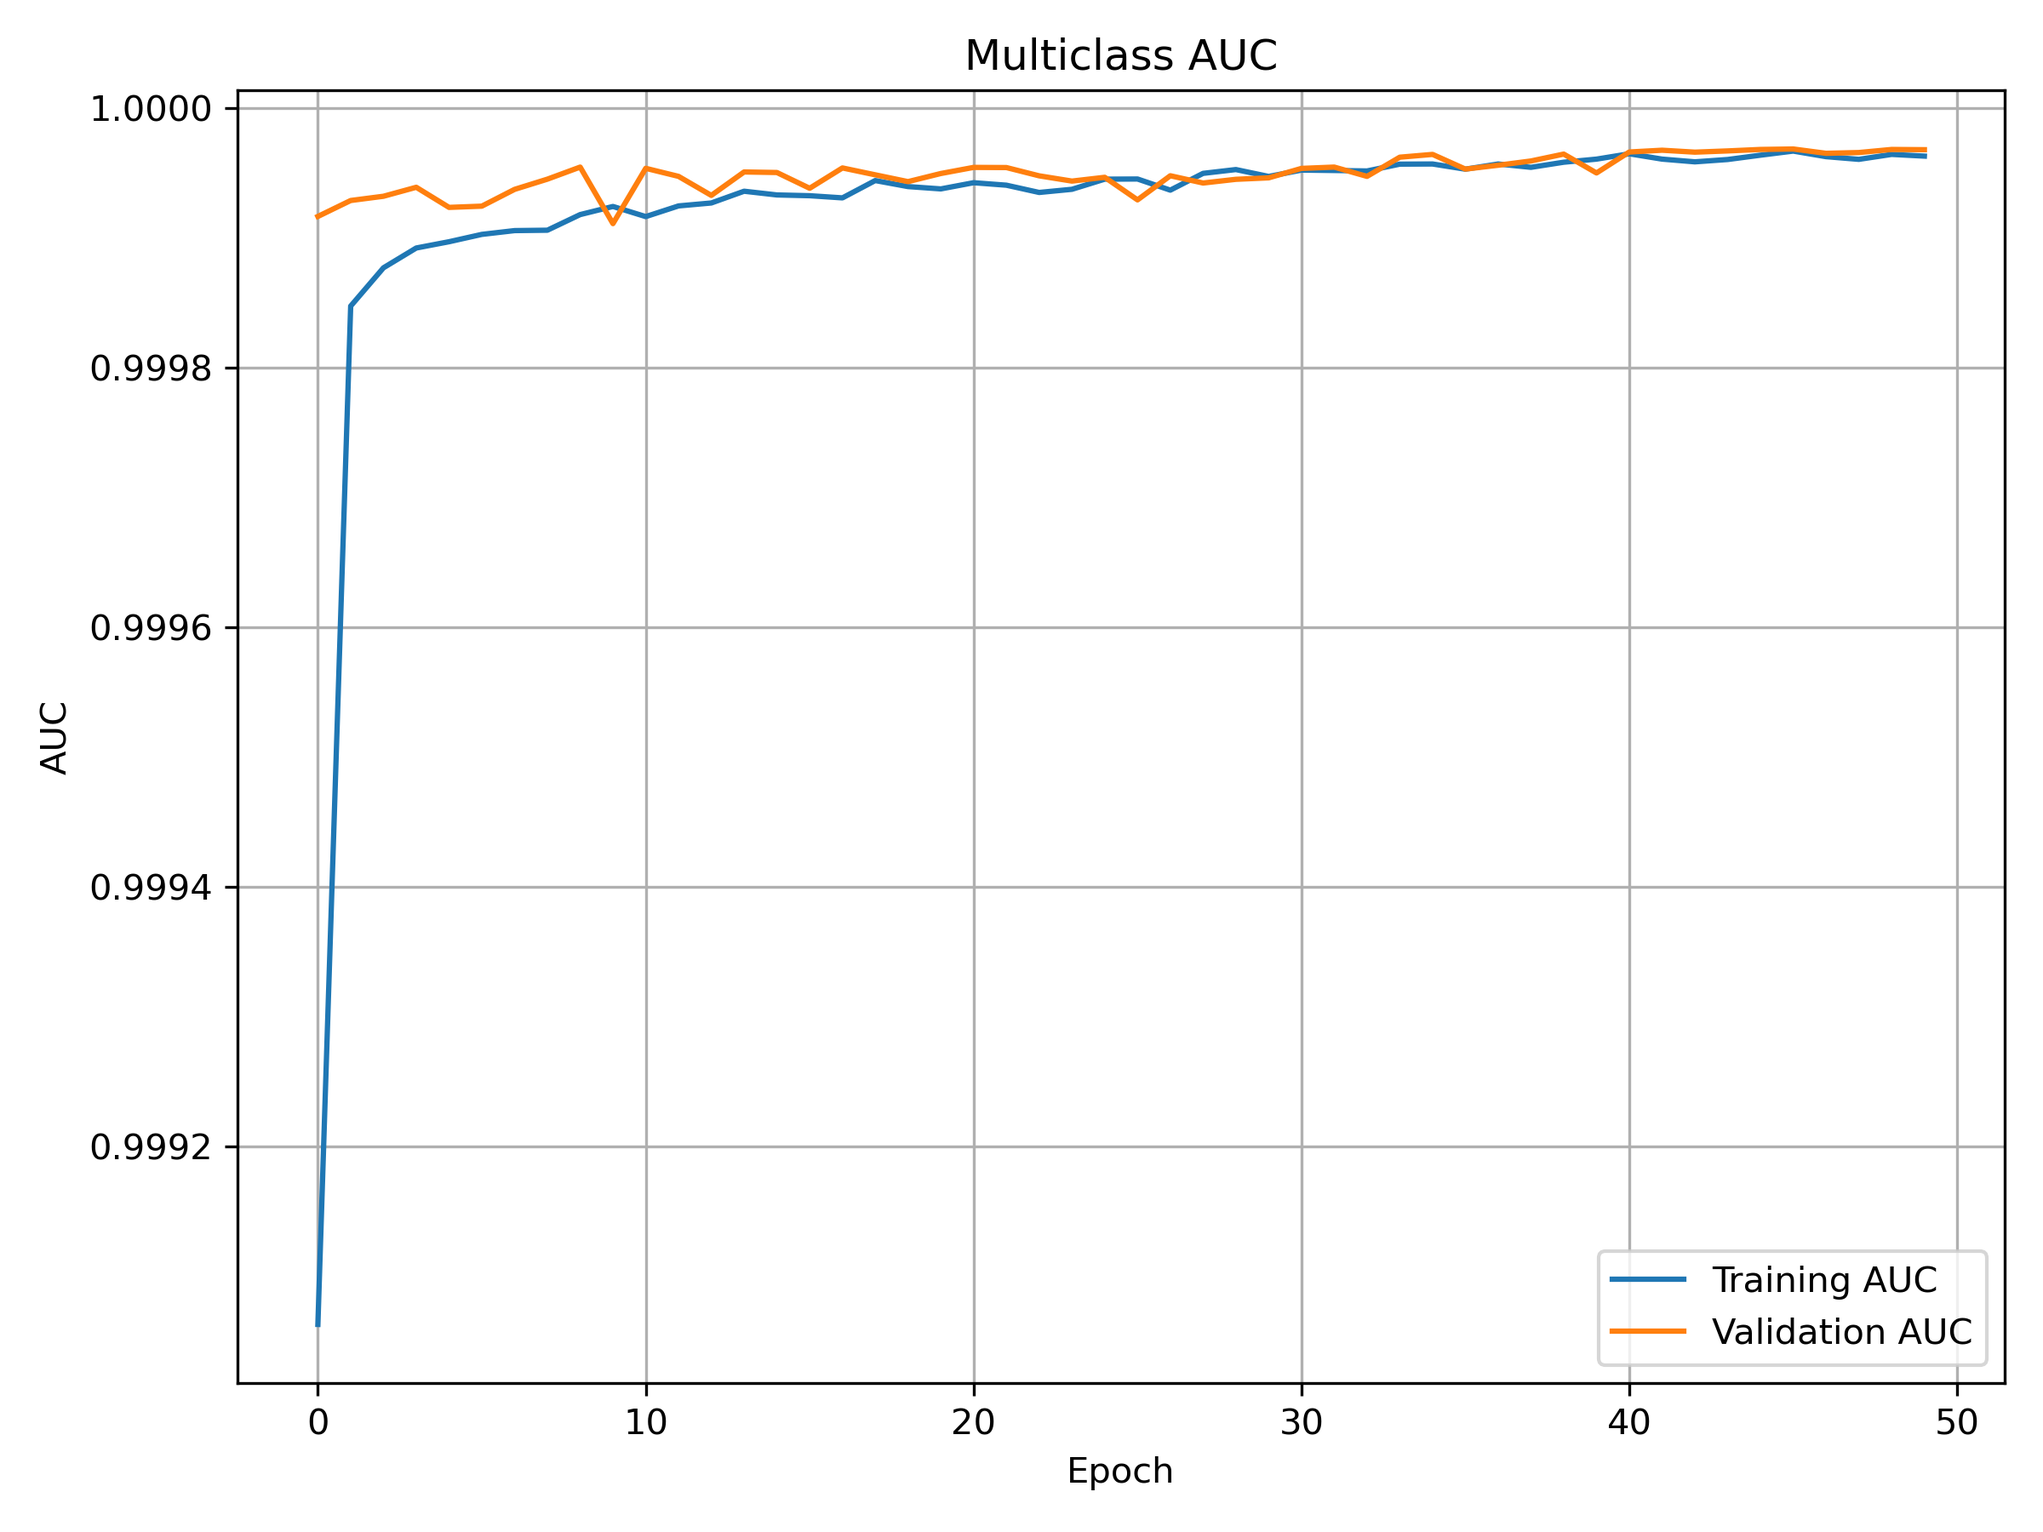
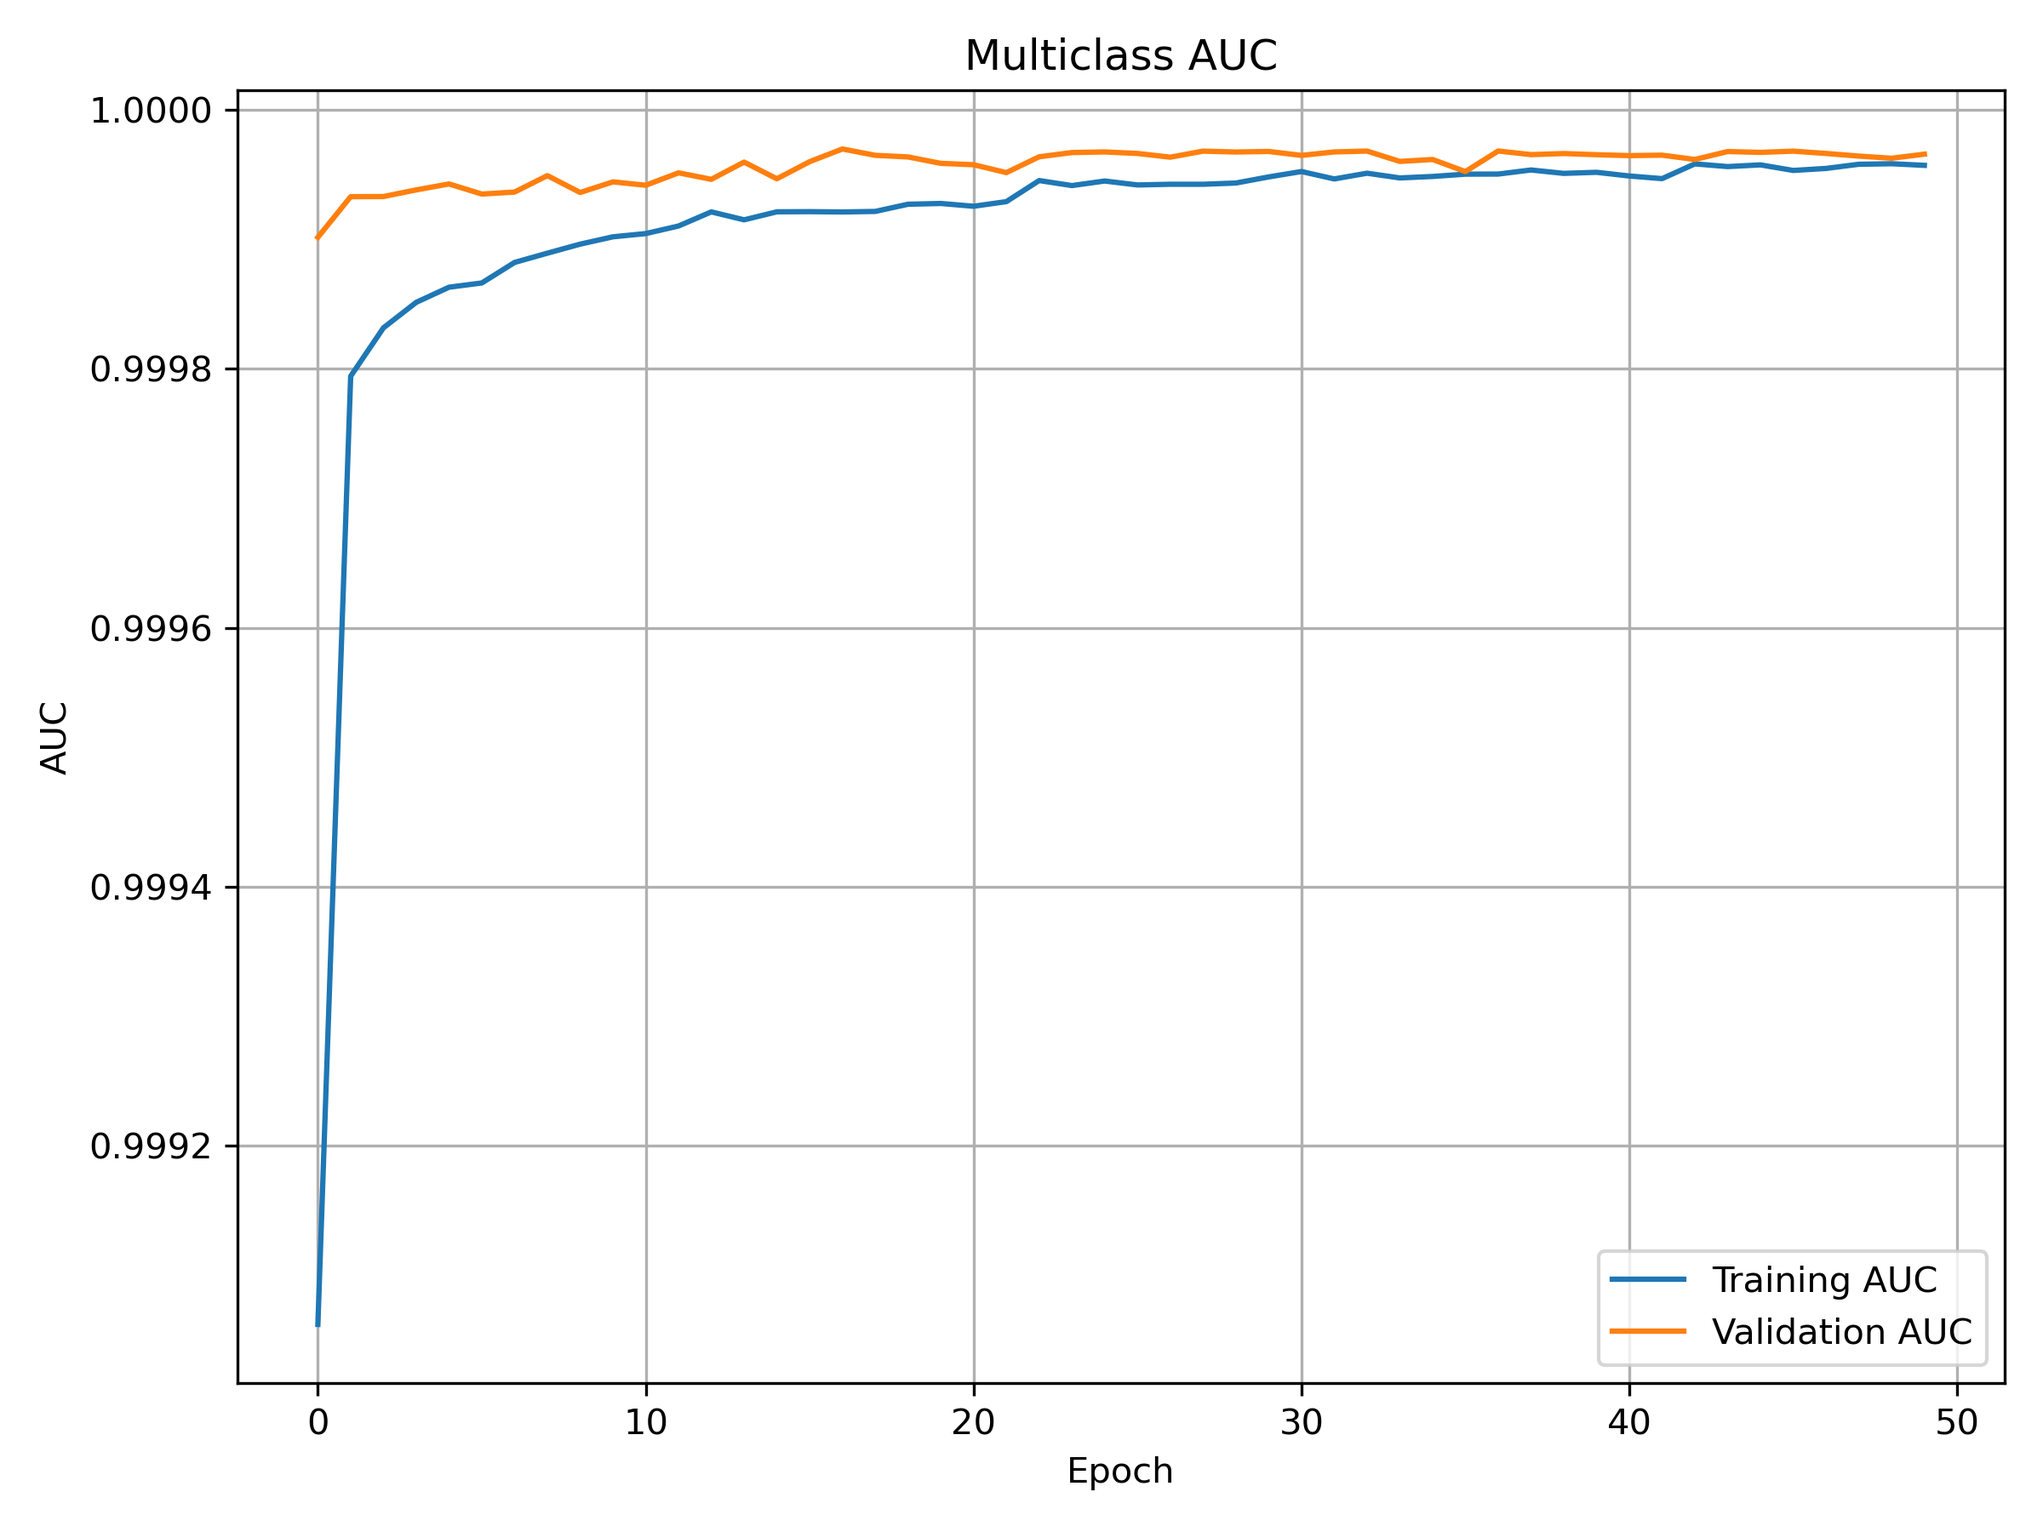
FPR for all multiclass classes

diff --git a/main-multiclass.py b/main-multiclass.py
@@ -6,7 +6,7 @@ import logging
 from pathlib import Path
 import random
 import traceback
-from multiclassFalsePositiveRate import MulticlassFalsePositiveRate
+from multiclassFalsePositiveRate import MulticlassFalsePositiveRate, create_multiclass_fpr_metrics
 
 # Set up logging
 logging.basicConfig(level=logging.INFO, format='%(asctime)s - %(levelname)s - %(message)s')
@@ -16,7 +16,7 @@ logger = logging.getLogger(__name__)
 class Config:
     # Dataset parameters
     NUM_FEATURES = 39
-    NUM_LINES = 500000
+    NUM_LINES = 750000
     BATCH_SIZE = 32
     DATA_FOLDER = f'proj/datasets/sized_data/multiclass/{NUM_LINES}_lines'
     MODEL_PATH = 'proj/models/best_multiclass_model.keras'
@@ -218,6 +218,10 @@ def create_model():
         clipnorm=1.0
     )
     
+    # Create separate FPR metrics for each class, using class names
+    class_names = ["Benign", "Mirai_GREIP_Flood", "Mirai_GREETH_Flood", "MIRAI_UDPPLAIN"]
+    fpr_metrics = create_multiclass_fpr_metrics(cfg.NUM_CLASSES, class_names)
+    
     model.compile(
         optimizer=optimizer,
         loss=tf.keras.losses.CategoricalCrossentropy(from_logits=False, label_smoothing=0.1),
@@ -232,7 +236,7 @@ def create_model():
                 threshold=None,
                 dtype=tf.float32
             ),
-            MulticlassFalsePositiveRate(negative_class=0, name='false_positive_rate')
+            *fpr_metrics  # Add all FPR metrics
         ]
     )
     return model
@@ -432,81 +436,143 @@ def plot_training_history(history):
         plt.savefig('proj/src/results/multiclass_model_precision_recall.png', dpi=300)
         plt.close()
     
-    # Plot False Positive Rate (if available)
-    if 'false_positive_rate' in history.history:
-        plt.figure(figsize=(8, 6))
-        plt.plot(history.history['false_positive_rate'], label="Training FPR")
-        plt.plot(history.history['val_false_positive_rate'], label="Validation FPR")
-        plt.title("Multiclass False Positive Rate")
-        plt.xlabel("Epoch")
-        plt.ylabel("FPR")
-        plt.legend()
-        plt.grid(True)
-        plt.tight_layout()
-        plt.savefig('proj/src/results/multiclass_model_fpr.png', dpi=300)
-        plt.close()
+    # Plot individual class False Positive Rates
+    class_names = ["Benign", "Mirai_GREIP_Flood", "Mirai_GREETH_Flood", "MIRAI_UDPPLAIN"]
+    for class_name in class_names:
+        metric_name = f'false_positive_rate_{class_name}'
+        if metric_name in history.history:
+            plt.figure(figsize=(8, 6))
+            plt.plot(history.history[metric_name], label=f"Training FPR ({class_name})")
+            val_metric_name = f'val_{metric_name}'
+            if val_metric_name in history.history:
+                plt.plot(history.history[val_metric_name], label=f"Validation FPR ({class_name})")
+            plt.title(f"False Positive Rate - {class_name}")
+            plt.xlabel("Epoch")
+            plt.ylabel("FPR")
+            plt.legend()
+            plt.grid(True)
+            plt.tight_layout()
+            plt.savefig(f'proj/src/results/multiclass_model_fpr_{class_name}.png', dpi=300)
+            plt.close()
     
-    # Grid Figure (2 x 3)
-    fig, axs = plt.subplots(2, 3, figsize=(18, 12))
+    # Multi-class FPR comparison plot
+    plt.figure(figsize=(10, 8))
+    for class_name in class_names:
+        metric_name = f'false_positive_rate_{class_name}'
+        if metric_name in history.history:
+            plt.plot(history.history[metric_name], label=f"{class_name}")
+    plt.title("Training FPR by Class")
+    plt.xlabel("Epoch")
+    plt.ylabel("FPR")
+    plt.legend()
+    plt.grid(True)
+    plt.tight_layout()
+    plt.savefig('proj/src/results/multiclass_model_fpr_comparison.png', dpi=300)
+    plt.close()
     
-    # Loss graph (top-left)
-    axs[0, 0].plot(history.history['loss'], label='Train Loss')
-    axs[0, 0].plot(history.history['val_loss'], label='Val Loss')
-    axs[0, 0].set_title("Multiclass Loss")
-    axs[0, 0].legend()
-    axs[0, 0].grid(True)
+    # Validation Multi-class FPR comparison plot
+    plt.figure(figsize=(10, 8))
+    for class_name in class_names:
+        val_metric_name = f'val_false_positive_rate_{class_name}'
+        if val_metric_name in history.history:
+            plt.plot(history.history[val_metric_name], label=f"{class_name}")
+    plt.title("Validation FPR by Class")
+    plt.xlabel("Epoch")
+    plt.ylabel("FPR")
+    plt.legend()
+    plt.grid(True)
+    plt.tight_layout()
+    plt.savefig('proj/src/results/multiclass_model_val_fpr_comparison.png', dpi=300)
+    plt.close()
     
-    # Accuracy graph (top-middle)
-    axs[0, 1].plot(history.history['accuracy'], label="Train Accuracy")
-    axs[0, 1].plot(history.history['val_accuracy'], label="Val Accuracy")
-    axs[0, 1].set_title("Multiclass Accuracy")
-    axs[0, 1].legend()
-    axs[0, 1].grid(True)
+    # Create enlarged grid figure for all metrics including per-class FPRs
+    num_metrics = 6  # base metrics
+    num_class_fprs = sum(1 for name in class_names if f'false_positive_rate_{name}' in history.history)
+    total_plots = num_metrics + num_class_fprs
     
-    # AUC graph (top-right)
+    # Calculate grid dimensions - aim for roughly square layout
+    import math
+    grid_cols = min(4, math.ceil(math.sqrt(total_plots)))
+    grid_rows = math.ceil(total_plots / grid_cols)
+    
+    # Create the grid
+    fig, axs = plt.subplots(grid_rows, grid_cols, figsize=(grid_cols*5, grid_rows*4))
+    axs = axs.flatten() if total_plots > 1 else [axs]  # Handle single plot case
+    
+    # Plot base metrics
+    plot_idx = 0
+    
+    # Loss graph
+    axs[plot_idx].plot(history.history['loss'], label='Train')
+    axs[plot_idx].plot(history.history['val_loss'], label='Val')
+    axs[plot_idx].set_title("Loss")
+    axs[plot_idx].legend()
+    axs[plot_idx].grid(True)
+    plot_idx += 1
+    
+    # Accuracy graph
+    axs[plot_idx].plot(history.history['accuracy'], label="Train")
+    axs[plot_idx].plot(history.history['val_accuracy'], label="Val")
+    axs[plot_idx].set_title("Accuracy")
+    axs[plot_idx].legend()
+    axs[plot_idx].grid(True)
+    plot_idx += 1
+    
+    # AUC graph
     if 'auc' in history.history:
-        axs[0, 2].plot(history.history['auc'], label="Train AUC")
-        axs[0, 2].plot(history.history['val_auc'], label="Val AUC")
-        axs[0, 2].set_title("Multiclass AUC")
-        axs[0, 2].legend()
-        axs[0, 2].grid(True)
-    else:
-        axs[0, 2].set_visible(False)
-        
-    # F1 Score graph (bottom-left)
-    if 'f1_score' in history.history:
-        axs[1, 0].plot(history.history['f1_score'], label="Train F1")
-        axs[1, 0].plot(history.history['val_f1_score'], label="Val F1")
-        axs[1, 0].set_title("Multiclass F1 Score")
-        axs[1, 0].legend()
-        axs[1, 0].grid(True)
-    else:
-        axs[1, 0].set_visible(False)
+        axs[plot_idx].plot(history.history['auc'], label="Train")
+        axs[plot_idx].plot(history.history['val_auc'], label="Val")
+        axs[plot_idx].set_title("AUC")
+        axs[plot_idx].legend()
+        axs[plot_idx].grid(True)
+        plot_idx += 1
     
-    # Precision & Recall graph (bottom-middle)
-    if 'precision' in history.history and 'recall' in history.history:
-        axs[1, 1].plot(history.history['precision'], label="Train Precision")
-        axs[1, 1].plot(history.history['val_precision'], label="Val Precision")
-        axs[1, 1].plot(history.history['recall'], label="Train Recall")
-        axs[1, 1].plot(history.history['val_recall'], label="Val Recall")
-        axs[1, 1].set_title("Multiclass Precision & Recall")
-        axs[1, 1].legend()
-        axs[1, 1].grid(True)
-    else:
-        axs[1, 1].set_visible(False)
-        
-    # False Positive Rate graph (bottom-right)
-    if 'false_positive_rate' in history.history:
-        axs[1, 2].plot(history.history['false_positive_rate'], label="Train FPR")
-        axs[1, 2].plot(history.history['val_false_positive_rate'], label="Val FPR")
-        axs[1, 2].set_title("Multiclass False Positive Rate")
-        axs[1, 2].legend()
-        axs[1, 2].grid(True)
-    else:
-        axs[1, 2].set_visible(False)
+    # F1 Score graph
+    if 'f1_score' in history.history:
+        axs[plot_idx].plot(history.history['f1_score'], label="Train")
+        axs[plot_idx].plot(history.history['val_f1_score'], label="Val")
+        axs[plot_idx].set_title("F1 Score")
+        axs[plot_idx].legend()
+        axs[plot_idx].grid(True)
+        plot_idx += 1
+    
+    # Precision graph
+    if 'precision' in history.history:
+        axs[plot_idx].plot(history.history['precision'], label="Train")
+        axs[plot_idx].plot(history.history['val_precision'], label="Val")
+        axs[plot_idx].set_title("Precision")
+        axs[plot_idx].legend()
+        axs[plot_idx].grid(True)
+        plot_idx += 1
+    
+    # Recall graph
+    if 'recall' in history.history:
+        axs[plot_idx].plot(history.history['recall'], label="Train")
+        axs[plot_idx].plot(history.history['val_recall'], label="Val")
+        axs[plot_idx].set_title("Recall")
+        axs[plot_idx].legend()
+        axs[plot_idx].grid(True)
+        plot_idx += 1
+    
+    # Individual class FPR graphs
+    for class_name in class_names:
+        metric_name = f'false_positive_rate_{class_name}'
+        if metric_name in history.history:
+            axs[plot_idx].plot(history.history[metric_name], label="Train")
+            val_metric_name = f'val_{metric_name}'
+            if val_metric_name in history.history:
+                axs[plot_idx].plot(history.history[val_metric_name], label="Val")
+            axs[plot_idx].set_title(f"FPR - {class_name}")
+            axs[plot_idx].legend()
+            axs[plot_idx].grid(True)
+            plot_idx += 1
+    
+    # Hide any unused subplots
+    for i in range(plot_idx, len(axs)):
+        axs[i].set_visible(False)
     
     plt.tight_layout()
-    plt.savefig("proj/src/results/multiclass_model_training_results_combined.png", dpi=300)
+    plt.savefig("proj/src/results/multiclass_model_all_metrics.png", dpi=300)
     plt.close()
 
 def main():
@@ -522,7 +588,7 @@ def main():
         model.summary()
         history = train_model(model, train_dataset, val_dataset)
         metrics = evaluate_model(model, test_dataset, test_batches)
-        plot_training_history(history)
+        #plot_training_history(history)
         
         # Print summary of final results
         logger.info("========== FINAL TRAINING RESULTS ==========")
@@ -551,6 +617,16 @@ def main():
         if 'false_positive_rate' in history.history:
             logger.info(f"Final training FPR: {history.history['false_positive_rate'][-1]:.4f}")
             logger.info(f"Final validation FPR: {history.history['val_false_positive_rate'][-1]:.4f}")
+        
+        # Log individual class FPRs 
+        class_names = ["Benign", "Mirai_GREIP_Flood", "Mirai_GREETH_Flood", "MIRAI_UDPPLAIN"]
+        for name in class_names:
+            metric_name = f'false_positive_rate_{name}'
+            if metric_name in history.history:
+                logger.info(f"Final training FPR ({name}): {history.history[metric_name][-1]:.4f}")
+                val_metric_name = f'val_{metric_name}'
+                if val_metric_name in history.history:
+                    logger.info(f"Final validation FPR ({name}): {history.history[val_metric_name][-1]:.4f}")
         
         logger.info(f"Test set results:")
         for metric_name, value in metrics.items():

diff --git a/multiclassFalsePositiveRate.py b/multiclassFalsePositiveRate.py
@@ -1,9 +1,23 @@
 import tensorflow as tf
 
 class MulticlassFalsePositiveRate(tf.keras.metrics.Metric):
-    def __init__(self, negative_class=0, name='false_positive_rate', **kwargs):
+    def __init__(self, target_class=1, class_name=None, name='false_positive_rate', **kwargs):
+        """
+        Calculate False Positive Rate for a specific class in a multiclass setting.
+        
+        Args:
+            target_class: The class to calculate FPR for (when this class is predicted but it's not the true class)
+            class_name: Name of the class (for display purposes)
+            name: Base name of the metric
+        """
+        # Use class name in the metric name if provided, otherwise use class index
+        if class_name:
+            name = f'{name}_{class_name}'
+        else:
+            name = f'{name}_class_{target_class}'
+            
         super(MulticlassFalsePositiveRate, self).__init__(name=name, **kwargs)
-        self.neg_class = negative_class
+        self.target_class = target_class
         self.false_positives = self.add_weight(name='fp', initializer='zeros')
         self.true_negatives = self.add_weight(name='tn', initializer='zeros')
 
@@ -12,19 +26,52 @@ class MulticlassFalsePositiveRate(tf.keras.metrics.Metric):
         y_true = tf.argmax(y_true, axis=1)
         # For predictions, choose the maximum probability
         y_pred = tf.argmax(y_pred, axis=1)
-        # Create binary indicators: 1 if attack, 0 if benign (negative_class)
-        true_binary = tf.cast(tf.not_equal(y_true, self.neg_class), self.dtype)
-        pred_binary = tf.cast(tf.not_equal(y_pred, self.neg_class), self.dtype)
-
-        fp = tf.reduce_sum(tf.cast(tf.logical_and(tf.equal(pred_binary, 1),tf.equal(true_binary, 0)), self.dtype))
-        tn = tf.reduce_sum(tf.cast(tf.logical_and(tf.equal(pred_binary, 0),tf.equal(true_binary, 0)), self.dtype))
+        
+        # For current target class: check predictions vs reality
+        # True negative: not the target class in both prediction and truth
+        is_target_class_pred = tf.equal(y_pred, self.target_class)
+        is_not_target_class_true = tf.not_equal(y_true, self.target_class)
+        
+        # False positive: predicted as target class but actually not target class
+        fp = tf.reduce_sum(
+            tf.cast(tf.logical_and(is_target_class_pred, is_not_target_class_true), 
+            self.dtype)
+        )
+        
+        # True negative: correctly predicted as not target class when it's not target class
+        is_not_target_class_pred = tf.not_equal(y_pred, self.target_class)
+        tn = tf.reduce_sum(
+            tf.cast(tf.logical_and(is_not_target_class_pred, is_not_target_class_true), 
+            self.dtype)
+        )
         
         self.false_positives.assign_add(fp)
         self.true_negatives.assign_add(tn)
 
     def result(self):
+        # Calculate FPR: FP / (FP + TN)
         return self.false_positives / (self.false_positives + self.true_negatives + 1e-7)
 
     def reset_states(self):
         self.false_positives.assign(0.)
         self.true_negatives.assign(0.)
+
+
+def create_multiclass_fpr_metrics(num_classes, class_names=None):
+    """
+    Create a list of FPR metrics, one for each class.
+    
+    Args:
+        num_classes: Number of classes in the classification problem
+        class_names: List of class names to use in metric names
+        
+    Returns:
+        List of MulticlassFalsePositiveRate metric instances
+    """
+    if class_names is None or len(class_names) != num_classes:
+        # Use default class indices if no names provided or length mismatch
+        return [MulticlassFalsePositiveRate(target_class=i) for i in range(num_classes)]
+    else:
+        # Use provided class names
+        return [MulticlassFalsePositiveRate(target_class=i, class_name=name) 
+                for i, name in enumerate(class_names)]
